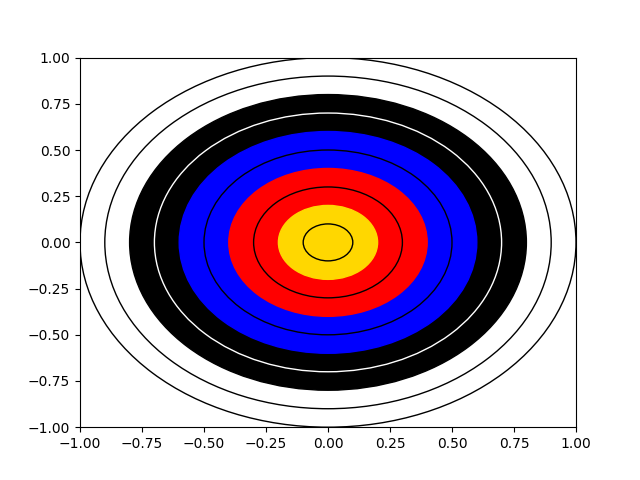
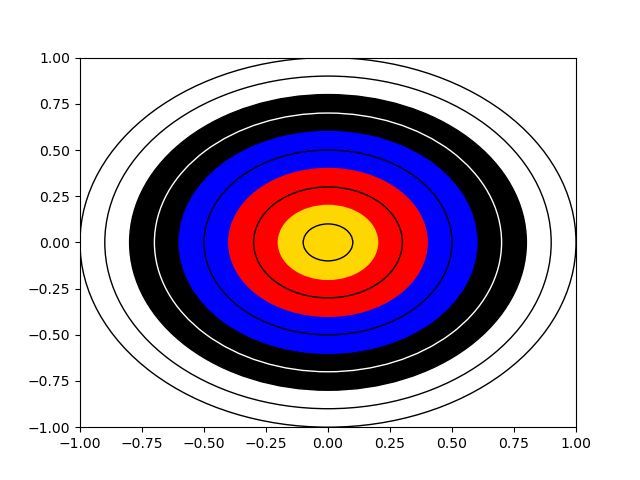
Broke up the main method into submethods

diff --git a/monty.py b/monty.py
@@ -6,19 +6,19 @@ import math
 def generateCoordinate(RADIAL : bool, xs, ys) -> int:
     
     if (RADIAL):
-        xPos, yPos, radius = generateCoordinatesRadially(xs, ys)
+        xPos, yPos, radius = generateCoordinateRadially(xs, ys)
     else:
-        xPos, yPos = generateCoordinatesUniformly(xs, ys)
+        xPos, yPos = generateCoordinateUniformly(xs, ys)
         radius = (xPos**2 + yPos**2)**(1/2)
     
-    xCoords.append(xPos)
-    yCoords.append(yPos)
+    xs.append(xPos)
+    ys.append(yPos)
     
     # print(radius)
     
     return radius
 
-def generateCoordinatesRadially(xs, ys):
+def generateCoordinateRadially(xs, ys):
     
     # generate a random angle
     theta = rng.uniform(0,2*math.pi)
@@ -33,37 +33,23 @@ def generateCoordinatesRadially(xs, ys):
     
     return xPos, yPos, radius
 
-def generateCoordinatesUniformly(xs, ys):
+def generateCoordinateUniformly(xs, ys):
     xPos = rng.uniform(-1.0, 1.0)
     yPos = rng.uniform(-1.0, 1.0)
     
     return xPos, yPos
 
-
-
-if __name__ == "__main__":
-    # print("Hello, World!")
-
-    # here i have the arrays and other important things
-    xCoords = []
-    yCoords = []
-    metricArr = [0, 0, 0, 0, 0, 0, 0, 0, 0, 0]
-    imperialArr = [0, 0, 0, 0, 0]
-    metricArrR = [0, 0, 0, 0, 0, 0, 0, 0, 0, 0]
-    imperialArrR = [0, 0, 0, 0, 0]
-    loops = 5_00 #0
-    inC = 0
+def generateCoordinates(IS_RADIAL, loops, numberOfShots, metricArr, imperialArr):
+    xs = []
+    ys = []
     counter = 0
     maxR = 1
-    IS_RADIAL = False
-
-
-    # generates points and places them in the arrays
+    
     while counter<loops:
         counted = False
 
         # here i make the random numbers
-        radius = generateCoordinate(IS_RADIAL, xCoords, yCoords)      
+        radius = generateCoordinate(IS_RADIAL, xs, ys)      
         #print(f"x: {xPos}, y: {yPos}, r: {radius}")
 
 
@@ -77,11 +63,58 @@ if __name__ == "__main__":
                 imperialArr[i//2] += 1
                 counted=True
                 #print("metric counted")
-                inC+=1
+                numberOfShots+=1
         
         counter+=1
+    
+    return metricArr, imperialArr, xs, ys, numberOfShots
+
+def createUniformImage():
+    
+    
+    
+    return
+
+def makeFigure(ax):
+    # Makes the rings and places them on a figure
+    circles = []
+    
+    # outermost ring boundary
+    circles.append(plt.Circle((0, 0), (1), 
+                            color='black', fill=False)) # 1  outer white ring boundary
+    
+    # colour boundaries
+    circles.append(plt.Circle((0, 0), (0.8), 
+                            color='black', fill=True)) # .8  outer black ring boundary
+    circles.append(plt.Circle((0, 0), (0.6), 
+                            color='blue', fill=True)) # .6  outer blue ring boundary
+    circles.append(plt.Circle((0, 0), (0.4), 
+                            color='red', fill=True)) # .4  outer red ring boundary
+    circles.append(plt.Circle((0, 0), (0.2), 
+                            color='gold', fill=True)) # .2  outer gold ring boundary
+    
+    # outer inner ring boundaryes, only used for metric
+    circles.append(plt.Circle((0, 0), (0.9), 
+                            color='black', fill=False)) # .9  inner white ring boundary
+    circles.append(plt.Circle((0, 0), (0.7), 
+                            color='white', fill=False)) # .7
+    circles.append(plt.Circle((0, 0), (0.5), 
+                            color='black', fill=False)) # .5
+    circles.append(plt.Circle((0, 0), (0.3), 
+                            color='black', fill=False)) # .3
+    circles.append(plt.Circle((0, 0), (0.1), 
+                            color='black', fill=False)) # .1
 
 
+    for i in range(0, 10):
+        ax.add_patch(circles[i])
+    return
+
+def calculateAndPrintResults(numberOfShots, metricArr, imperialArr, loops):
+    metricArrR = [0, 0, 0, 0, 0, 0, 0, 0, 0, 0]
+    imperialArrR = [0, 0, 0, 0, 0]
+    
+    
 
     for i in range(0, 10):
         metricArrR[i] = metricArr[i]*(10-i)
@@ -92,15 +125,15 @@ if __name__ == "__main__":
         #print("imperial", i, 9-2*i)
         
 
-    # prints out results
+    
     print("sum divided by number in circle")
     print("\nMetric")
     print(metricArr, metricArrR, ", sum: ", sum(metricArrR),
-        ", avg: ", (sum(metricArrR)/inC))
+        ", avg: ", (sum(metricArrR)/numberOfShots))
 
     print("\nImperial")
     print(imperialArr, imperialArrR, ", sum: ", sum(imperialArrR), 
-        ", avg: ", (sum(imperialArrR)/inC))
+        ", avg: ", (sum(imperialArrR)/numberOfShots))
 
     print("\n")
 
@@ -109,47 +142,39 @@ if __name__ == "__main__":
         ", avg: ", (sum(metricArrR)/loops))
     print(imperialArr, imperialArrR, ", sum: ", sum(imperialArrR), 
         ", avg: ", (sum(imperialArrR)/loops))
+    
+    return
+
+def displayShots(loops):
+    # print("Hello, World!")
+    loops = 5_00 #0
+    IS_RADIAL = False
+
+    # here i have the arrays and other important things
+    metricArr = [0, 0, 0, 0, 0, 0, 0, 0, 0, 0]
+    imperialArr = [0, 0, 0, 0, 0]
+    numberOfShots = 0
+
+
+    # generates points and places them in the arrays
+    metricArr, imperialArr, xs, ys, numberOfShots = generateCoordinates(IS_RADIAL, loops, numberOfShots, metricArr, imperialArr)
+
+
+    # calculates and prints out results
+    calculateAndPrintResults(numberOfShots, metricArr, imperialArr, loops)
 
     fig, ax = plt.subplots()
 
     # sets the limits of the axes
     ax.set_xlim((-1, 1))
     ax.set_ylim((-1, 1))
-
-    #Makes the circles
-    circles = []
-
-    circles.append(plt.Circle((0, 0), (1), 
-                            color='black', fill=False)) # 1
-    circles.append(plt.Circle((0, 0), (0.9), 
-                            color='black', fill=False)) # .9
-    circles.append(plt.Circle((0, 0), (0.8), 
-                            color='black', fill=True)) # .8
-    circles.append(plt.Circle((0, 0), (0.7), 
-                            color='white', fill=False)) # .7
-    circles.append(plt.Circle((0, 0), (0.6), 
-                            color='blue', fill=True)) # .6
-    circles.append(plt.Circle((0, 0), (0.5), 
-                            color='black', fill=False)) # .5
-    circles.append(plt.Circle((0, 0), (0.4), 
-                            color='red', fill=True)) # .4
-    circles.append(plt.Circle((0, 0), (0.3), 
-                            color='black', fill=False)) # .3
-    circles.append(plt.Circle((0, 0), (0.2), 
-                            color='gold', fill=True)) # .2
-    circles.append(plt.Circle((0, 0), (0.1), 
-                            color='black', fill=False)) # .1
-        
-
-    for i in range(0, 10):
-        ax.add_patch(circles[i])
+    
+    makeFigure(ax)
 
     fig.savefig('plotcircles.png')
     
-    print(xCoords[1], yCoords[1])
 
-
-    plt.plot(xCoords, yCoords, ".")
+    plt.plot(xs, ys, ".")
     plt.plot(0, 0, color="#000000")
     plt.xlabel('X-axis')
     plt.ylabel('Y-axis')
@@ -159,3 +184,8 @@ if __name__ == "__main__":
     ax.set_aspect('equal', adjustable='box')
 
     plt.show()
+    return
+
+
+if __name__ == "__main__":
+    displayShots(500)
